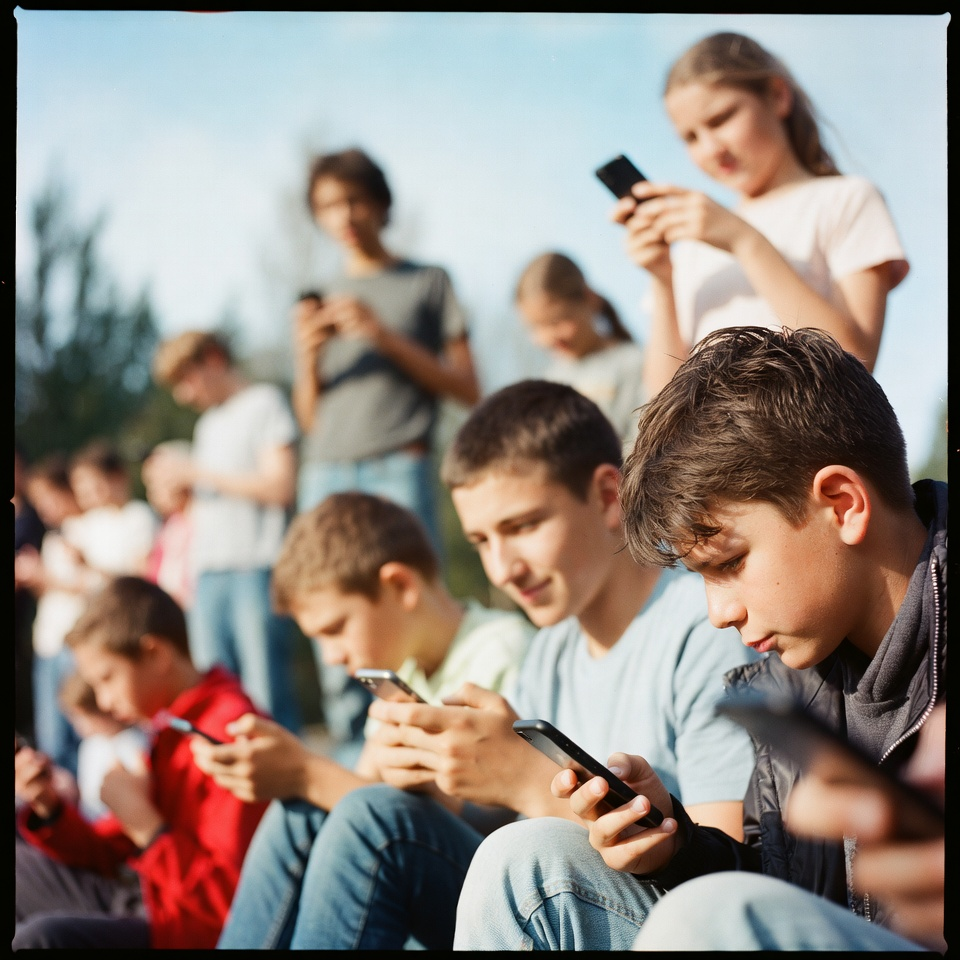
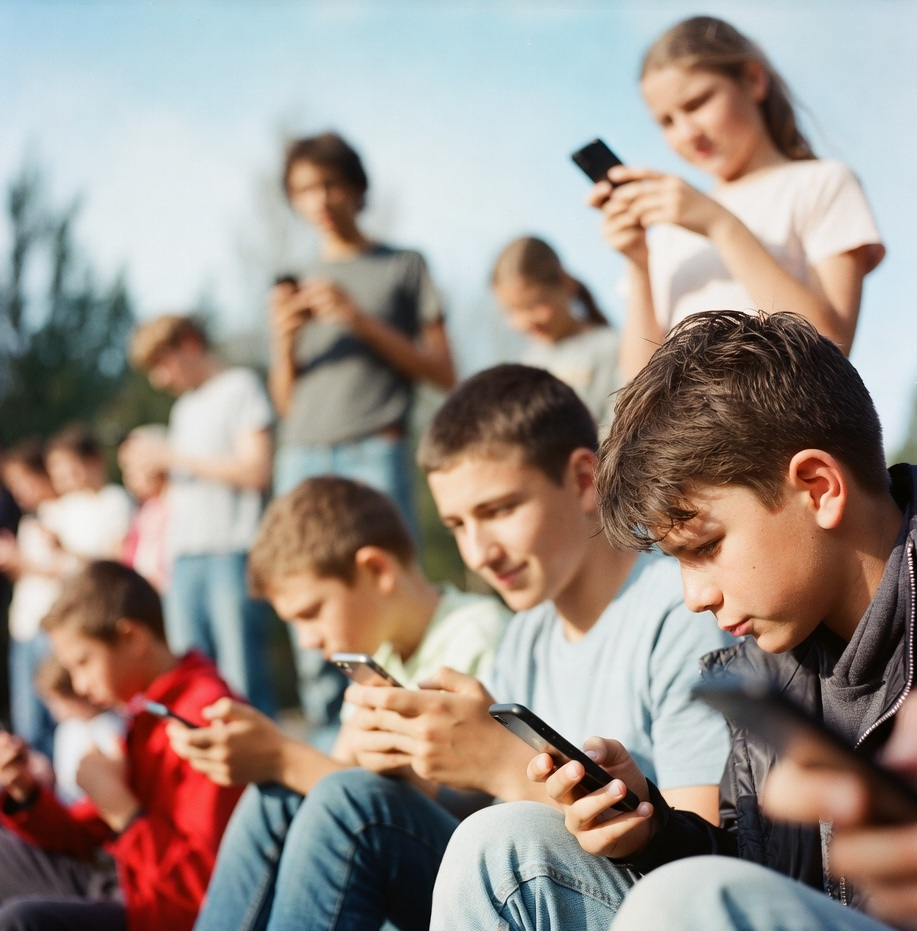
Skończona strona nasza-misja

diff --git a/app/nasza-misja/page.tsx b/app/nasza-misja/page.tsx
@@ -1,10 +1,9 @@
-import Link from 'next/link';
 import Image from 'next/image';
 import Tag from '@/components/Tag';
 
 export default function NaszaMisja() {
     return (
-        <main className="bg-[#C2D3FF] min-h-screen flex flex-col items-center justify-top py-45">
+        <main className="bg-[#C2D3FF] min-h-screen flex flex-col items-center justify-top pt-45">
             <header className="flex flex-col w-3/4 md:w-1/2 mx-auto items-center justify-center text-center">
                 <Tag className="bg-black/10 text-foreground mb-12">Nasza Misja</Tag>
                 <p className="text-5xl/16 md:text-8xl/32 font-title mb-12">Odzyskajmy dzieciństwo</p>
@@ -13,20 +12,101 @@ export default function NaszaMisja() {
                 <p className="text-lg md:text-xl mb-8"><b><i>Może jednak coś da się z tym zrobić?</i></b></p>
                 <p className="text-lg md:text-xl mb-12">Samemu jest trudno, ale <b>razem możemy dać dzieciom lepszy start</b>.</p>
             </header>
-            <section className="flex flex-col bg-white rounded-3xl items-center justify-center w-3/4 mx-auto">
-                <div className="flex flex-col md:flex-row">
-                    <div className="">
-                        <p>tekst</p>
+            <section className="flex flex-col bg-white rounded-3xl items-center justify-center w-3/4 mx-auto mb-16">
+                <div className="flex flex-col md:flex-row items-center justify-center w-full">
+                    <div className="text-left order-2 md:order-1 w-full p-8 md:p-16">
+                        <p className="text-3xl md:text-5xl/16 font-title pb-8">Nowa rzeczywistość rodziców</p>
+                        <p className="text-sm md:text-lg font-sans pb-6">W niewiele ponad 15 lat smartfony całkowicie zmieniły oblicze dzieciństwa, a dowodów na to, że wyrządzają więcej szkód niż pożytku, nie można już ignorować. Obecnie nie ma żadnych formalnych wytycznych dotyczących tego, kiedy dzieci powinny otrzymać swój pierwszy smartfon, ani regulacji ograniczających korzystanie z tych urządzeń przez dzieci na terenie szkół.</p>
+                        <p className="text-sm md:text-lg font-sans">Powoduje to bezsilność rodziców wobec panujących realiów. Każdy rodzic, w trosce o swoje dziecko, staje samotnie do nierównej walki z najpotężniejszymi firmami technologicznymi na świecie, które wydają miliardy dolarów, by jak najdłużej przytrzymać dzieci przed ekranami.</p>
                     </div>
-                    <div className="">
+                    <div className="order-1 md:order-2 w-full p-16">
                         <Image
                             src="/images/misja-1.jpg"
                             alt=""
-                            width={600}
-                            height={600}
-                            className="rounded-3xl m-8"
+                            width={500}
+                            height={500}
+                            className="rounded-3xl w-full h-auto"
+                            sizes="(max-width: 768px) 100vw, 50vw"
                         />
                     </div>
+                </div>
+                <div className="flex flex-col md:flex-row items-center justify-center w-full">
+                    <div className="text-left order-2 md:order-2 w-full p-8 md:p-16">
+                        <p className="text-3xl md:text-5xl/16 font-title pb-8">Wszyscy chcą zmiany</p>
+                        <p className="text-sm md:text-lg font-sans pb-2">👫 Rodzice, którzy dali swoim dzieciom smartfony, żałują, że nie poczekali</p>
+                        <p className="text-sm md:text-lg font-sans pb-2">🧑Nauczyciele twierdzą, że smartfony wpływają na naukę, przyjaźnie i koncentrację</p>
+                        <p className="text-sm md:text-lg font-sans pb-2">🏥 Lekarze łączą smartfony z kryzysem zdrowia psychicznego nastolatków</p>
+                        <p className="text-sm md:text-lg font-sans pb-6">📵 Młodzi ludzie chcieliby, żeby smartfon nie miał tak dużego wpływu na ich życie</p>
+                        <p className="text-sm md:text-lg font-sans"><b>To kto na tym korzysta? Firmy technologiczne</b>. Im więcej czasu dzieci spędzają na ich platformach, tym większy zysk te firmy osiągają, zupełnie nie przejmując się kosztem ponoszonym przez nasze dzieci.</p>
+                    </div>
+                    <div className="order-1 md:order-1 w-full p-16">
+                        <Image
+                            src="/images/misja-2.jpg"
+                            alt=""
+                            width={500}
+                            height={500}
+                            className="rounded-3xl w-full h-auto"
+                            sizes="(max-width: 768px) 100vw, 50vw"
+                        />
+                    </div>
+                </div>
+                <div className="flex flex-col md:flex-row items-center justify-center w-full">
+                    <div className="text-left order-2 md:order-1 w-full p-8 md:p-16">
+                        <p className="text-3xl md:text-5xl/16 font-title pb-8">Niemożliwy wybór</p>
+                        <p className="text-sm md:text-lg font-sans pb-6">Kiedy co drugie dziecko ma smartfona z najaktualniejszymi aplikacjami, rezygnacja z niego wydaje się odsunięciem dziecka od innych.</p>
+                        <p className="text-sm md:text-lg font-sans pb-2">Rodzice stają więc przed niemożliwym wyborem:</p>
+                        <p className="text-sm md:text-lg font-sans pb-2">☹ Powiedzieć „tak” smartfonowi i zaryzykować dobro dziecka</p>
+                        <p className="text-sm md:text-lg font-sans pb-6">☹ Albo powiedzieć „nie” i zaryzykować odcięcie dziecka od rówieśników</p>
+                        <p className="text-sm md:text-lg font-sans">To klasyczny przykład sytuacji, w której żadna decyzja nie wydaje się dobra. Sytuacji, przed którą żadna rodzina nie powinna była zostać postawiona samotnie.</p>
+                    </div>
+                    <div className="order-1 md:order-2 w-full p-16">
+                        <Image
+                            src="/images/misja-3.jpg"
+                            alt=""
+                            width={500}
+                            height={500}
+                            className="rounded-3xl w-full h-auto"
+                            sizes="(max-width: 768px) 100vw, 50vw"
+                        />
+                    </div>
+                </div>
+                <div className="flex flex-col md:flex-row items-center justify-center w-full">
+                    <div className="text-left order-2 md:order-2 w-full p-8 md:p-16">
+                        <p className="text-3xl md:text-5xl/16 font-title pb-8">Rozwiązaniem tego dylematu jest działanie RAZEM</p>
+                        <p className="text-sm md:text-lg font-sans">W obliczu tego niemożliwego wyboru, rozwiązaniem jest <b>współpraca</b>. Zgadzając się <b>zbiorowo</b> na opóźnienie momentu wręczenia dzieciom smartfonów, możemy odwrócić bieg wydarzeń i odzyskać dzieciństwo z „rąk” gigantów technologicznych. Jeśli będziemy działać w grupie, zmiana jest nie tylko możliwa – jest <b>nieunikniona</b>.</p>
+                    </div>
+                    <div className="order-1 md:order-1 w-full p-16">
+                        <Image
+                            src="/images/misja-4.jpg"
+                            alt=""
+                            width={500}
+                            height={500}
+                            className="rounded-3xl w-full h-auto"
+                            sizes="(max-width: 768px) 100vw, 50vw"
+                        />
+                    </div>
+                </div>
+            </section>
+            <section className="relative w-screen overflow-hidden">
+                {/* Background Image */}
+                <Image
+                    src="/images/misja-5.jpg"
+                    alt=""
+                    width={1168}
+                    height={764}
+                    className="absolute w-full h-full object-cover"
+                    sizes="100vw, 50vw"
+                />
+                {/* Overlay for better text readability */}
+                <div className="absolute inset-0 bg-black opacity-40"></div>
+
+                {/* Content */}
+                <div className="relative z-10 flex flex-col items-center justify-center w-3/4 md:w-1/2 h-full mx-auto text-center text-white px-4">
+                    <p className="text-3xl md:text-5xl/16 font-title mt-16 mb-8">Naszą misją jest zjednoczenie ludzi, aby wspólnie walczyć o zdrowsze i szczęśliwsze dzieciństwo</p>
+                    <p className="text-sm md:text-lg font-bold my-4">W programie „Dzieciństwo Bez Smartfona” nie chodzi o zakaz korzystania z technologii ani powrót do przeszłości – chodzi o danie dzieciom więcej tego, co naprawdę ważne: czasu na eksplorację świata, budowanie relacji z rówieśnikami i rodziną oraz zwyczajną dziecięcą beztroskę.</p>
+                    <p className="text-sm md:text-lg font-bold my-4">Pomagamy rodzinom wspólnie odłożyć smartfony i media społecznościowe – budując społeczność, dzieląc się wsparciem i pokazując, że jest inne wyjście. Krok po kroku. Cegiełka po cegiełce. Smartfon po smartfonie.</p>
+                    <p className="text-sm md:text-lg font-bold my-4">Bo prawdziwa zmiana nie przychodzi z góry. Zaczyna się tu - od nas wszystkich, od naszej wspólnej pracy.</p>
+                    <p className="text-3xl md:text-5xl/16 font-bold mt-4 mb-40"><b>Zjednoczeni dla dzieciństwa</b></p>
                 </div>
             </section>
         </main>
